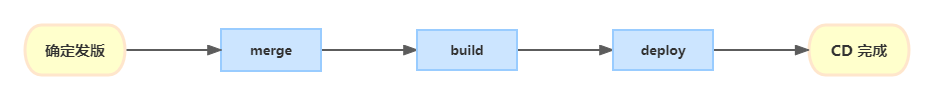
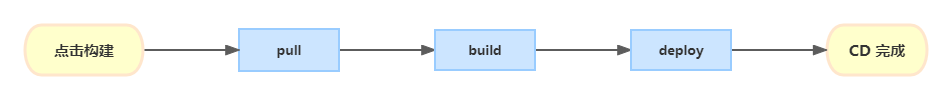
update doc

diff --git a/docs/jenkins/README.md b/docs/jenkins/README.md
@@ -2,40 +2,51 @@
 
 ## 提升镜像拉取速度（可选）
 
-准备镜像配置
-
-```json
-{
-  "registry-mirrors": [
-    "https://hub-mirror.c.163.com",
-    "https://mirror.baidubce.com"
-  ]
-}
-```
-
-执行命令
-
-```sh
-mkdir /etc/docker
-vi /etc/docker/daemon.json
-# 将镜像 json 粘贴到 daemon.json 文件中，保存并退出后执行下面的命令
-systemctl daemon-reload
-systemctl restart docker
-```
-
-检查配置是否生效（可选）
+检查是否有加速配置，运行命令：
 
 ```sh
 docker info
 ```
 
-若返回的信息含有以下文字则说明设置已经生效：
+1. 若返回类似以下文字则说明有镜像加速配置，但镜像源可能是未生效：
 
-```sh
- Registry Mirrors:
-  https://hub-mirror.c.163.com/
-  https://mirror.baidubce.com/
-```
+   ```sh
+   Registry Mirrors:
+     https://hub-mirror.c.163.com/
+     https://mirror.baidubce.com/
+   ```
+
+   执行命令，使源配置生效：
+
+   ```sh
+   systemctl daemon-reload
+   systemctl restart docker
+   ```
+
+2. 若没有返回上述文字，则需要配置镜像源：
+
+   准备镜像配置
+
+   ```json
+   {
+     "registry-mirrors": [
+       "https://hub-mirror.c.163.com",
+       "https://mirror.baidubce.com"
+     ]
+   }
+   ```
+
+   执行命令
+
+   ```sh
+   mkdir /etc/docker
+   vi /etc/docker/daemon.json
+   # 将镜像 json 粘贴到 daemon.json 文件中，保存并退出后执行下面的命令
+   systemctl daemon-reload
+   systemctl restart docker
+   ```
+
+   镜像加速配置完成，加速生效。
 
 ## 使用 docker 安装 Jenkins
 
@@ -116,15 +127,97 @@ Jenkins 的搭建已经完成，后文是通过 Jenkins 实现 CD：
 
 ## CD
 
-CD 的主要过程：
+CD 的主要过程如下：
 
-![创建第一个管理员用户](./assets/CD主要过程.png)
+![CD主要过程](./assets/CD主要过程.png)
+
+### 安装 && 配置插件
+
+依次打开插件安装界面：`Dashboard - 系统管理 - 插件管理 - Available plugins`
+
+在搜索输入框内输入插件完整的名称、选中后点击`安装`按钮
+
+![安装插件](./assets/2023-10-06_114140.jpg)
+
+1.  `pull`：拉取代码
+
+    1. 安装插件：`Git`（通常作为默认插件在安装 Jenkins 时已自动安装）
+    2. 插件安装完成过后依次打开 `Dashboard - 系统管理 - 系统配置`，找到`Git plugin`，填写本地 git 账户的昵称与邮箱、点击保存
+       ![配置本地Git](./assets/2023-10-06_115207.jpg)
+
+    3. 配置 gitlab 凭据
+
+       依次打开 `Dashboard - 系统管理 - 凭据管理 - 添加凭据`，找到`Git plugin`
+       ![凭据管理](./assets/2023-10-07_092947.jpg)
+
+       选择`Username with password`，填入登录 gitlab 时使用的账号密码以及其他附属信息，最后点击`Create`
+       ![创建凭据](./assets/2023-10-07_143341.jpg)
+
+2.  `build`：执行构建命令，需要 `nodejs` 环境
+
+    1. 安装插件：`NodeJS`
+    2. 插件安装完成过后依次打开`Dashboard - 系统管理 - 全局工具配置`，找到`NodeJS 安装`，点击`新增 NodeJS`
+    3. 选择 node 版本，并点击`保存`
+       ![选择node版本](./assets/2023-10-06_120251.jpg)
+    4. 更换`npm Taobao`源
+
+       1. 依次点开`Dashboard - 系统管理 - Managed files - Add a new Config`
+
+       2. 选择`Npm config file`，最后点击`Next`
+          ![创建Npm-config-file](./assets/2023-10-07_161634.jpg)
+
+       3. 在新表单中填入名称等必要项后点击`新增`
+          ![创建Npm-config-file](./assets/2023-10-07_162255.jpg)
+
+       4. 填入淘宝源：`https://registry.npm.taobao.org`后点击`Submit`
+          ![创建Npm-config-file](./assets/2023-10-07_165040.jpg)
+
+       ::: tip 提示
+       也可以不配置更换 npm 源，构建时增加一行命令指定 npm 源也可以：
+
+       ```sh
+       npm i --registry https://registry.npm.taobao.org
+       ```
+
+       :::
+
+3.  `deploy`：部署，需要连接别的服务器`传输文件`并执行`部署脚本`
+
+    1.  安装插件：`Publish over SSH`
+    2.  插件安装完成过后依次打开 `Dashboard - 系统管理 - 系统配置`，找到`Publish over SSH`，点击`新增`
+
+        填入服务器 IP、账号密码、根路径以及其他必要信息后点击保存
+        ![创建构建任务](./assets/2023-10-07_175559.jpg)
+
+        ::: tip 提示
+        构建时调用插件传输文件的路径均是相对于该处填写的`Remote Directory`，因此填写成`根路径 /`比较方便
+        :::
+
+### 创建构建任务
+
+点击左侧“新建任务”，再分别输入项目名、选择项目类型，最后点击确定
+
+![创建构建任务](./assets/2023-10-07_080444.jpg)
+
+1.  配置源码管理
+
+    选择 `Git`，填入代码`仓库地址`，选择登录 gitlab 的`凭据`，填写`分支`后点击确定
+
+    ![配置源码管理](./assets/2023-10-07_145312.jpg)
+
+    ::: tip 提示
+    该步配置完后最好先执行构建一次，看看能否正常拉取代码，能正常拉取再继续后面的配置
+    :::
+
+2.  配置构建环境
+
+    勾选`Provide Node & npm bin/ folder to PATH`
+    ![配置源码管理](./assets/2023-10-07_182151.jpg)
 
 ## ZDB 相关配置
 
 账密：`zgadmin/pwd@jenkins`
 
-Dashboard - Manage Jenkins - Available plugins
 Publish Over SSH
 GitLab
 

diff --git a/docs/gitlab/README.md b/docs/gitlab/README.md
@@ -1,0 +1,20 @@
+```sh
+docker run \
+ -d \
+ -u root \
+ --publish 9090:80 \
+ --name gitlab \
+ --volume /usr/local/gitlab/config:/etc/gitlab \
+ --volume /usr/local/gitlab/logs:/var/log/gitlab \
+ --volume /usr/local/gitlab/data:/var/opt/gitlab \
+ gitlab/gitlab-ee:latest
+```
+
+管理员账号：root
+管理员密码：vi /usr/local/gitlab/config/initial_root_password
+
+root/pwd.mzx.com
+
+默认 clone 链接是 hash，gitlab 修改 IP 地址及仓库地址
+vi /usr/local/gitlab/config/gitlab.rb
+external_url 'http://{ip}'
